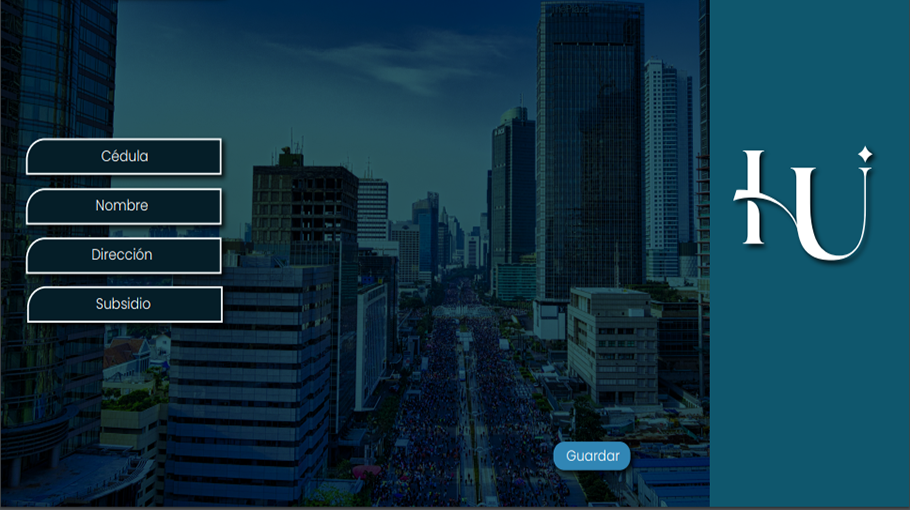
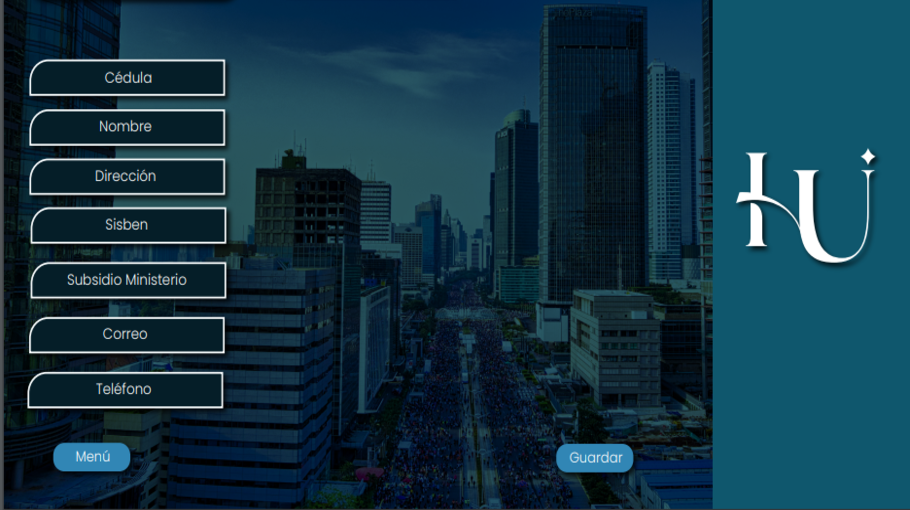
asd

Changed region(s): [[0.0, 0.0, 1.0, 1.0], [0.3077, 0.2941, 0.3385, 0.3235]]

diff --git a/Horizontes_Urbanos/src/main/java/VISTA/asesor/EditarCliente.java b/Horizontes_Urbanos/src/main/java/VISTA/asesor/EditarCliente.java
@@ -54,21 +54,21 @@ public class EditarCliente extends javax.swing.JFrame {
                 txtCedulaClienteActionPerformed(evt);
             }
         });
-        getContentPane().add(txtCedulaCliente, new org.netbeans.lib.awtextra.AbsoluteConstraints(240, 60, 320, 30));
+        getContentPane().add(txtCedulaCliente, new org.netbeans.lib.awtextra.AbsoluteConstraints(240, 110, 320, 30));
 
         txtNombreCliente.addActionListener(new java.awt.event.ActionListener() {
             public void actionPerformed(java.awt.event.ActionEvent evt) {
                 txtNombreClienteActionPerformed(evt);
             }
         });
-        getContentPane().add(txtNombreCliente, new org.netbeans.lib.awtextra.AbsoluteConstraints(240, 110, 320, 30));
+        getContentPane().add(txtNombreCliente, new org.netbeans.lib.awtextra.AbsoluteConstraints(240, 150, 320, 30));
 
         txtDireccionCliente.addActionListener(new java.awt.event.ActionListener() {
             public void actionPerformed(java.awt.event.ActionEvent evt) {
                 txtDireccionClienteActionPerformed(evt);
             }
         });
-        getContentPane().add(txtDireccionCliente, new org.netbeans.lib.awtextra.AbsoluteConstraints(240, 160, 320, 30));
+        getContentPane().add(txtDireccionCliente, new org.netbeans.lib.awtextra.AbsoluteConstraints(240, 190, 320, 30));
 
         cmbSubsidio.setModel(new javax.swing.DefaultComboBoxModel<>(new String[] { "-", "SI", "NO" }));
         cmbSubsidio.addActionListener(new java.awt.event.ActionListener() {
@@ -76,28 +76,28 @@ public class EditarCliente extends javax.swing.JFrame {
                 cmbSubsidioActionPerformed(evt);
             }
         });
-        getContentPane().add(cmbSubsidio, new org.netbeans.lib.awtextra.AbsoluteConstraints(240, 210, 120, 30));
+        getContentPane().add(cmbSubsidio, new org.netbeans.lib.awtextra.AbsoluteConstraints(240, 230, 120, 30));
 
         txtSubsidioMinisterio.addActionListener(new java.awt.event.ActionListener() {
             public void actionPerformed(java.awt.event.ActionEvent evt) {
                 txtSubsidioMinisterioActionPerformed(evt);
             }
         });
-        getContentPane().add(txtSubsidioMinisterio, new org.netbeans.lib.awtextra.AbsoluteConstraints(240, 270, 320, 30));
+        getContentPane().add(txtSubsidioMinisterio, new org.netbeans.lib.awtextra.AbsoluteConstraints(240, 280, 320, 30));
 
         txtCorreoCliente.addActionListener(new java.awt.event.ActionListener() {
             public void actionPerformed(java.awt.event.ActionEvent evt) {
                 txtCorreoClienteActionPerformed(evt);
             }
         });
-        getContentPane().add(txtCorreoCliente, new org.netbeans.lib.awtextra.AbsoluteConstraints(240, 320, 320, 30));
+        getContentPane().add(txtCorreoCliente, new org.netbeans.lib.awtextra.AbsoluteConstraints(240, 330, 320, 30));
 
         txtTelefonoCliente.addActionListener(new java.awt.event.ActionListener() {
             public void actionPerformed(java.awt.event.ActionEvent evt) {
                 txtTelefonoClienteActionPerformed(evt);
             }
         });
-        getContentPane().add(txtTelefonoCliente, new org.netbeans.lib.awtextra.AbsoluteConstraints(240, 370, 320, 30));
+        getContentPane().add(txtTelefonoCliente, new org.netbeans.lib.awtextra.AbsoluteConstraints(240, 380, 320, 30));
 
         btnGuardarCliente.setBackground(new java.awt.Color(49, 134, 181));
         btnGuardarCliente.setFont(new java.awt.Font("Segoe UI Black", 0, 12)); // NOI18N
@@ -109,9 +109,9 @@ public class EditarCliente extends javax.swing.JFrame {
                 btnGuardarClienteActionPerformed(evt);
             }
         });
-        getContentPane().add(btnGuardarCliente, new org.netbeans.lib.awtextra.AbsoluteConstraints(550, 430, 90, 40));
+        getContentPane().add(btnGuardarCliente, new org.netbeans.lib.awtextra.AbsoluteConstraints(530, 440, 90, 40));
 
-        jLabel1.setIcon(new javax.swing.ImageIcon(getClass().getResource("/Images/registrarCliente.png"))); // NOI18N
+        jLabel1.setIcon(new javax.swing.ImageIcon(getClass().getResource("/Images/editarCliente.png"))); // NOI18N
         getContentPane().add(jLabel1, new org.netbeans.lib.awtextra.AbsoluteConstraints(0, 0, -1, -1));
 
         pack();

diff --git a/Horizontes_Urbanos/src/main/java/VISTA/asesor/administrarVenta.java b/Horizontes_Urbanos/src/main/java/VISTA/asesor/administrarVenta.java
@@ -80,14 +80,14 @@ public class administrarVenta extends javax.swing.JFrame {
                 txtNumeroCoutasActionPerformed(evt);
             }
         });
-        jPanel1.add(txtNumeroCoutas, new org.netbeans.lib.awtextra.AbsoluteConstraints(240, 130, 370, 30));
+        jPanel1.add(txtNumeroCoutas, new org.netbeans.lib.awtextra.AbsoluteConstraints(250, 180, 370, 30));
 
         txtFechaVenta.addActionListener(new java.awt.event.ActionListener() {
             public void actionPerformed(java.awt.event.ActionEvent evt) {
                 txtFechaVentaActionPerformed(evt);
             }
         });
-        jPanel1.add(txtFechaVenta, new org.netbeans.lib.awtextra.AbsoluteConstraints(240, 80, 370, 30));
+        jPanel1.add(txtFechaVenta, new org.netbeans.lib.awtextra.AbsoluteConstraints(250, 130, 370, 30));
 
         btnMenu.setBackground(new java.awt.Color(49, 134, 181));
         btnMenu.setFont(new java.awt.Font("Segoe UI Black", 0, 12)); // NOI18N
@@ -125,7 +125,7 @@ public class administrarVenta extends javax.swing.JFrame {
         ));
         jScrollPane3.setViewportView(tablaMostrarAptosNoVendidos);
 
-        jPanel1.add(jScrollPane3, new org.netbeans.lib.awtextra.AbsoluteConstraints(240, 180, 460, 220));
+        jPanel1.add(jScrollPane3, new org.netbeans.lib.awtextra.AbsoluteConstraints(240, 240, 460, 150));
 
         lbClienteActual.setFont(new java.awt.Font("Segoe UI Black", 0, 18)); // NOI18N
         lbClienteActual.setForeground(new java.awt.Color(255, 255, 255));

diff --git a/Horizontes_Urbanos/src/main/java/VISTA/asesor/administrarCliente.java b/Horizontes_Urbanos/src/main/java/VISTA/asesor/administrarCliente.java
@@ -116,7 +116,7 @@ public class administrarCliente extends javax.swing.JFrame {
                 btnMenuActionPerformed(evt);
             }
         });
-        jPanel1.add(btnMenu, new org.netbeans.lib.awtextra.AbsoluteConstraints(50, 410, 100, 40));
+        jPanel1.add(btnMenu, new org.netbeans.lib.awtextra.AbsoluteConstraints(50, 420, 100, 40));
 
         txtTelefonoCliente.addActionListener(new java.awt.event.ActionListener() {
             public void actionPerformed(java.awt.event.ActionEvent evt) {
